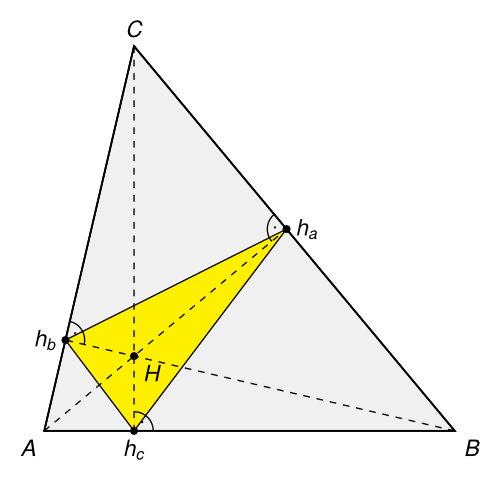
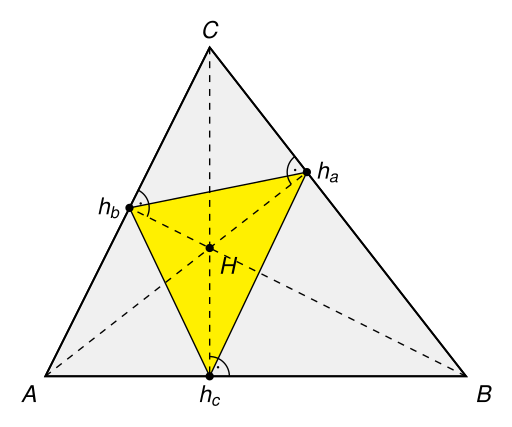
Improve quality

diff --git a/tikz/triangle-perpendicular/triangle-perpendicular.tex b/tikz/triangle-perpendicular/triangle-perpendicular.tex
@@ -15,7 +15,7 @@
 \begin{tikzpicture}[very thick,font=\sansmath\sffamily]
     \tkzDefPoint(0,0){A}
     \tkzDefPoint(6.4,0){B}
-    \tkzDefPoint(1.4,6){C}
+    \tkzDefPoint(2.5,5){C}
 
     \tkzLabelPoints[below left,font=\sansmath\sffamily](A)
     \tkzLabelPoints[below right,font=\sansmath\sffamily](B)
